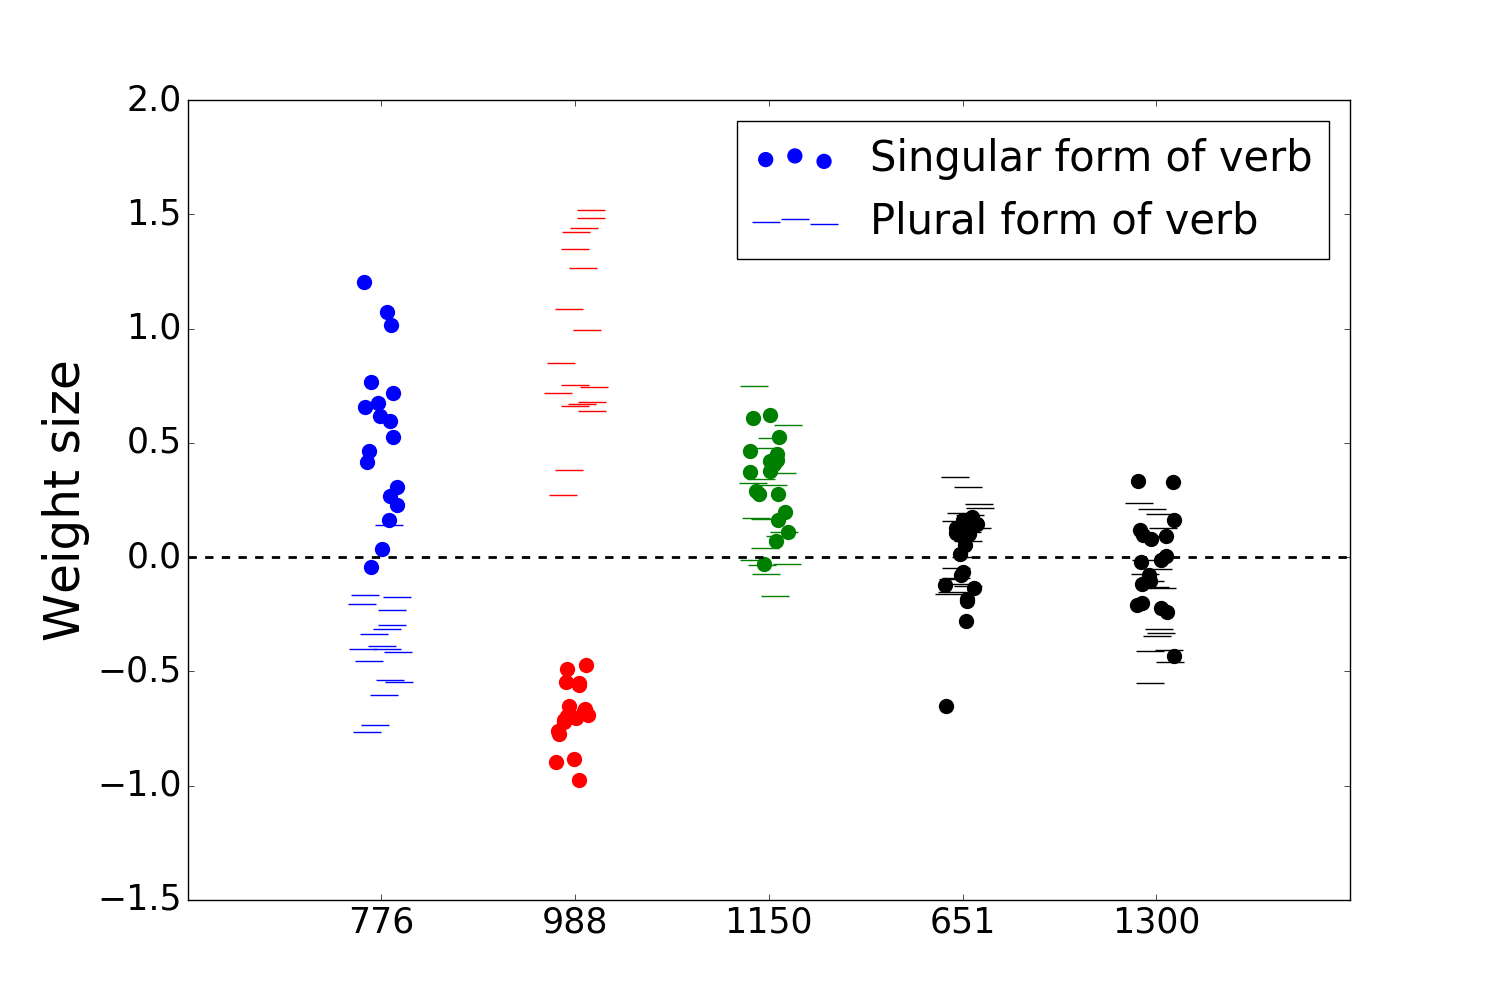
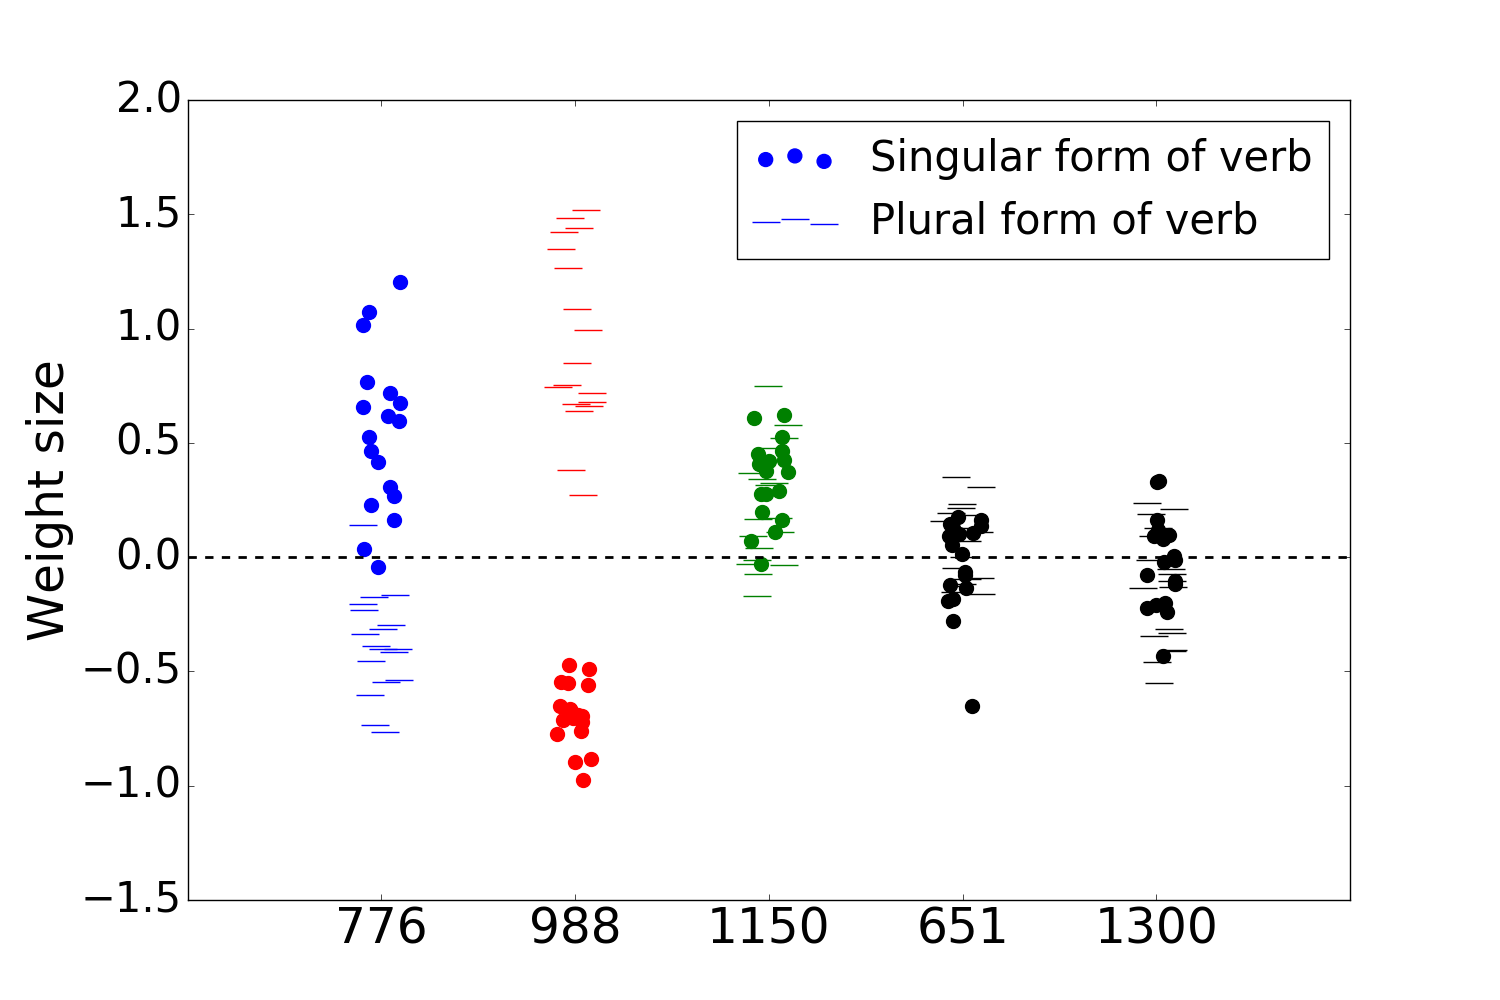
final cosmetics

diff --git a/writeup/NAACL2019/Sections/Results_number.tex b/writeup/NAACL2019/Sections/Results_number.tex
@@ -55,6 +55,7 @@ nounPPAdv & PP & - &  - &   \textcolor{blue}{99.8} \\
 \hline
 
 \end{tabular}
+% \tiny
 \caption{Ablation-experiments results: Percentage accuracy in all NA-tasks. Full: non-ablated model, C: condition, S: singular, P: plural. Red: Singular subject, Blue: Plural subject. Performance reduction less than 10\% is denoted by `-'.  \label{tab:ablation-results}}
 \end{table}
 \end{center}
@@ -90,13 +91,13 @@ nounPPAdv & PP & - &  - &   \textcolor{blue}{99.8} \\
 \subsection{Long-range number units}\label{subsec:ablation}
 We first tested LSTM performance on Linzen's data and on the NA-tasks of Table
 \ref{tab:data-sets}. Following
-\newcite{Linzen:etal:2016} and later work, we compute the likelihood
+\newcite{Linzen:etal:2016} and later work, we computed the likelihood
 that the LSTM assigns to the main verb of each sentence given the
-preceding context, and compare it to the likelihood it assigns to the
-wrong verb inflection. Accuracy in a given condition is the proportion of sentences in the condition where the model assigned a higher likelihood to the correct form than to the wrong one.
+preceding context, and compared it to the likelihood it assigns to the
+wrong verb inflection. Accuracy in a given condition was measured as the proportion of sentences in the condition where the model assigned a higher likelihood to the correct form than to the wrong one.
 
 Network performance is reported in Table \ref{tab:ablation-results}
-(right column -- `Full'). We see, first, that some NA-tasks and
+(right column -- `Full'). First, results show that some NA-tasks and
 conditions are more difficult than others. For example, performance on
 the Simple (0-distance) NA-task is better than that on the Co-Adv
 NA-task, which in turn is better than that of the nounPP
@@ -105,7 +106,7 @@ number-mismatch conditions of namePP, nounPP and nounPPAdv) reduce
 network performance. Third, for long-range dependencies, reliably
 encoding singular subject across an interfering noun is more difficult
 than a plural subject: for both nounPP and nounPPAdv, PS is easier
-than SP. A possible explanation is that in English the plural form is
+than SP. A possible explanation for this finding is that in English the plural form is
 almost always more frequent than the singular one, as the latter only
 marks third person singular, whereas the former is identical to the
 infinitive and other forms. Thus, if the network reverts to unigram
@@ -137,7 +138,7 @@ network performance only if the subject is plural (P, PS or PP conditions) and \
 only if the subject is singular (S, SP or SS conditions). In what follows, we will therefore
 refer to these units as the `plural' and `singular' units, respectively,
 or long-range (LR) number units when referring to both. Finally, we note that although the Linzen NA-task contained mixed stimuli from many types of conditions, the plural unit was found to have a substantial effect on average on network performance. The singular unit didn't show a similar effect in this case, which highlights the importance of using carefully crafted stimuli, as in the nounPP and nounPPAdv tasks, for understanding network dynamics. Taken
-together, the results suggest a highly local coding scheme of
+together, these results suggest a highly local coding scheme of
 grammatical number when processing long-range dependencies.
 
 \paragraph{Visualizing gate and cell-state dynamics}\label{subsec:gate-dynamics}
@@ -193,17 +194,17 @@ A single divergence between the solution depicted in Figure \ref{fig:cartoon} an
 
 \begin{figure}[b]
     \centering
-    \includegraphics[height=5cm]{Figures/weight_dists_verbs.png}
+    \includegraphics[height=4.6cm]{Figures/weight_dists_verbs.png}
     \caption{Efferent weights of the LR-units (\unit{2}{126} and \unit{2}{338}), the syntax unit (\unit{2}{500}; section \ref{sec:syntax-units}) and two arbitrary units (\unit{2}{1} and \unit{2}{650}).}
     \label{fig:output-weights}
 \end{figure}
 
-The singular and plural units have emerged at the second layer of the network. This seems appropriate if number information needs to be directly projected to the output layer for correct verb-form prediction. Moreover, number-unit output should be projected differently to singular and plural verb forms in the output layer, only increasing activity in output units representing the suitable form. For example, for the singular unit, since singular subjects are encoded with a negative value ($C_{t_{verb}-1}<-1$ in figure \ref{fig:singular-unit}), the more negative its efferent weights to singular verb forms in the output layer, the higher the probabilities of these verb forms would be. Figure \ref{fig:output-weights} shows the efferent weights of the LR-number units to all verbs in our data-sets. We find that, indeed, the efferent weights to the singular and plural verb forms are segregated from each other, with weight signs that correspond to the negative encoding of subject number used by both singular and plural units. Two other arbitrary units, \unit{2}{1} and \unit{2}{650}, and the syntax unit \unit{2}{500} to be described below (Section \ref{sec:syntax-units}) do not have segregated efferent weights to verb forms, as expected. 
+The singular and plural units had emerged at the second layer of the network. This seems appropriate if number information needs to be directly projected to the output layer for correct verb-form prediction. Moreover, number-unit output should be projected differently to singular and plural verb forms in the output layer, only increasing activity in output units representing the suitable form. For example, for the singular unit, since singular subjects are encoded with a negative value ($C_{t_{verb}-1}<-1$ in figure \ref{fig:singular-unit}), the more negative its efferent weights to singular verb forms in the output layer, the higher the probabilities of these verb forms would be. Figure \ref{fig:output-weights} shows the efferent weights of the LR-number units to all verbs in our data-sets. We found that, indeed, the efferent weights to the singular and plural verb forms are segregated from each other, with weight signs that correspond to the negative encoding of subject number used by both singular and plural units. Two other arbitrary units, \unit{2}{1} and \unit{2}{650}, and the syntax unit \unit{2}{500} to be described below (Section \ref{sec:syntax-units}) do not have segregated efferent weights to verb forms, as expected. 
 
 \subsection{Short-range number information}
 \begin{figure}
     \centering
-    \includegraphics[height=5cm]{Figures/GAT1d_cell_.png}
+    \includegraphics[height=4cm, width=8cm]{Figures/GAT1d_cell_.png}
     \caption{Generalization across time of subject-number prediction. Error bars represent standard deviations across cross-validation splits.}
     \label{fig:GAT}
 \end{figure}

diff --git a/writeup/NAACL2019/Sections/Intro.tex b/writeup/NAACL2019/Sections/Intro.tex
@@ -10,12 +10,12 @@ success can be explained by opportunistic surface-pattern-based
 heuristics.
 
 Until now, this debate has mostly relied on ``behavioural'' evidence:
-The LSTM is treated as a black box, and its capacities are indirectly
-inferred by its performance on linguistic tasks. We take here a
-complementary ``neuroscientific'' approach: We thoroughly investigate
+The LSTM had been treated as a black box, and its capacities had been indirectly
+inferred by its performance on linguistic tasks. In this study, we took a
+complementary ``neuroscientific'' approach: We thoroughly investigated
 the inner dynamics of an LSTM performing the number agreement task,
 striving to achieve a mechanistic understanding of how it accomplishes
-it. We find that the LSTM specialized two ``grandma'' cells
+it. We found that the LSTM had specialized two ``grandma'' cells
 \cite{Bowers:2009} to carry number features from the subject to the
 verb across the intervening material.\footnote{In the neuroscientific
   literature, ``grandma'' cells are (sets of) neurons coding for
@@ -38,13 +38,3 @@ structure-dependent linguistic operations. In turn, this suggests that
 raw linguistic input and generic memory mechanisms, such as those
 implemented in LSTMs, may suffice to trigger the induction of
 non-trivial grammatical rules.
-
-%\yair{In case we would need further compression in the intro, we could consider omitting the penultimate paragraph that describes the results, and leave the reader with only the teaser in the current last paragraph.}
-
-
-%\marco{Yair, I think your intro is excellent, but I feel is too long for a NAACL conference paper, where probably even mine will have to be shortened: I'd comment it out and keep it for the journal version.}
-
-%\yair{I love the intro as is. We could perhaps try to anchor the work within a slightly wider context though, by first discussing the debate between structure-based vs. statistical/heuristic approachs to sentence processing in humans in both linguistics and neuroscience. Then, describing the recent findings about LSTM-LMs as a parallel debate about RNNs, and finally to stress the advantages of working out the latter debate about LSTM-LM through computational simulations, like our work, in contributing to insights regarding the original debate in humans. I therefore sketched a possible intro paragraph, but we could postpone this for the more 'cognitive' audience in the longer version (and perhaps its also anyway too ambitious to describe our work as contributing in any way to the classic debate).}
-
-%\yair{Sentence comprehension requires to process dependencies between words in the sentence. Such dependencies may affect the meaning ascribed to sentence constituents and the prediction of next ones. Two opposing theoretical approches have been suggested for sentence comprehension. The first, more traditional one, suggests that structure-based syntactic processes are the principal computational capacity of human language (cite Chomsky 57,72; Pinker 95; Hauser et al 2002). According to this approach, word dependencies are described by syntactic trees and their processing is described by structure-based parsing computations (cite). The second, more recent approach, suggests that more fuzzy processes may underline human-language computations, thus embrasing 'good enough parsing' and canny heuristics (cite, eg, Traxler 2014; Ferreira, F., \& Patson, N. D. 2007; ). According to this approach, word dependencies, and sentence comprehension in general, are instead desribed by information-based and Bayesian theories (e.g., Levy R, 2009; Gibson et al 2013). Following this, a parallel debate has emerged in the neuroscientific community, drawing into consideration also the continuous dyanmics of biological nerual network akin to fuzzy computations. On the one hand, several studies provided evidence that brain processes lend themselves to interpreations from traditional syntax theories (cite Friederici, 2006, 2013, Nelson 2017). On the other hand, other studies have provided evidence against the primacy of such syntactic and structure-based computations in neural processing of sentences (e.g., Fedorenko 2018). Interestingly, recently, a similar debate about sentence processing has emerged about state-of-the-art sequential-learning models in the field of artificial neural networks (eg Linzen et al 2016, Gulordava:etal:2018, Kuncoro:etal:2018b, Linzen:Leonard:2018; see also Lake B et al:Behav and Brain sci:2017 for a related, more general, scope of debate, awakening an older one fodor\&pylyshyn:1988). Since both artifical and biological neural networks preserve the tension between their continuous dynamics and the discrete, structure-based, character of syntacic processing, while ANNs provide flexibility in conducting experiments, also going through tremendous recent advances, looking into this debate from this perspective may turn out to be in particular instructional.}
-

diff --git a/writeup/NAACL2019/Sections/Related_literature.tex b/writeup/NAACL2019/Sections/Related_literature.tex
@@ -1,16 +1,10 @@
 
 \section{Related work}
 
-% \marco{This can be made more compact by removing the intro par, and in the behavioural part only discussing studies of agreement. I would remove the part about which studies suggested agreement is done via heuristics and which argued it's genuinely structure-sensitive from the intro, and move it here. Happy to do that myself.}
-
-% Previous studies on understanding RNNs can be roughly characterized in two classes: studies that focus on visualising or interpreting the hidden state activations of such networks; and work that focuses on the behavior or performance of a model by studying the learnability of particular datasets or phenomena.
-% We briefly discuss the most important studies concerning RNNs applied for natural language processing.
-% For the second class, we specifically focus on behavioral studies concerning \textit{neural language models},a topic particularly relevant for the current paper.
-
 Starting with the seminal work of \newcite{Linzen:etal:2016},
 long-distance number agreement (``the \textbf{boy} near the cars
 \textbf{greets}\ldots'') has emerged as a standard way to probe the
-syntactic capabilities of RNNs. After
+syntactic capabilities of RNNs. Following
 mixed initial results by Linzen and colleagues and
 \newcite{Bernardy:Lappin:2017}, \newcite{Gulordava:etal:2018} and
 \newcite{Kuncoro:etal:2018a} have robustly established that LSTMs
@@ -28,20 +22,13 @@ While \newcite{Linzen:etal:2016} presented intriguing qualitative data
 showing cells that track number in a network specifically trained on
 the agreement task, most work of this sort focuses on testing the
 network output behaviour, rather than on understanding how the latter
-follows from the network inner representations. Another research line
-studies linguistic processing in neural networks through `diagnostic classifiers', that is, classifiers trained to
+follows from the inner representations of the network. Another research line
+studied linguistic processing in neural networks through `diagnostic classifiers', that is, classifiers trained to
 predict a certain property from network activations
-\cite[e.g.,][]{gelderloos2016phonemes,Adi:etal:2017,alain2017understanding,Hupkes:etal:2017}. This
-approach can shed insights on which information is encoded by the
+\cite[e.g.,][]{gelderloos2016phonemes,Adi:etal:2017,alain2017understanding,Hupkes:etal:2017}. This approach may give insight into which information is encoded by the
 network in different layers or at different time points, but it only
 provides indirect evidence about the specific mechanics of linguistic
 processing in the network.
-% E.g., \newcite{gelderloos2016phonemes} find evidence that a multilayer
-% RNN trained in a visually grounded learning paradigm learns to
-% represent linguistic information in a hierarchy, encoding form in the
-% lower and meaning in the higher layers.  \dieuwke{This is of course
-%   not very extensive, but maybe this is not really the place to put a
-%   too elaborate analysis?}
 
 Other studies are closer to our approach in that they attempt to
 attribute function to specific network cells, often by means of
@@ -52,7 +39,7 @@ language-model-trained network.  \newcite{Kementchedjhieva:Lopez:2018}
 recently found a character-level RNN to track morpheme boundaries in a
 single cell. We are however not aware of others studies systematically
 characterizing the processing of a linguistic phenomenon at the level of
-RNN cell dynamics as we attempt to do here.
+RNN cell dynamics, as is the attempt in the study hereby presented.
 
 
 % E.g., \newcite{gelderloos2016phonemes} find evidence that a multilayer

diff --git a/writeup/NAACL2019/Sections/Results_syntax.tex b/writeup/NAACL2019/Sections/Results_syntax.tex
@@ -4,29 +4,29 @@
 \begin{figure*}[t]
     \begin{subfigure}{0.32\textwidth}
             \centering
-            \includegraphics[width=\linewidth, height=3cm]{Figures/adv_conjunction_1149_cell}
+            \includegraphics[width=\linewidth, height=1.9cm]{Figures/adv_conjunction_1149_cell}
             \caption{2Adv}
             \label{fig:syntax-unit-2Adv}
     \end{subfigure}
     \begin{subfigure}{0.32\textwidth}
             \centering
-            \includegraphics[width=\linewidth, height=3cm]{Figures/nounpp_1149_cell.png}
+            \includegraphics[width=\linewidth, height=1.9cm]{Figures/nounpp_1149_cell.png}
             \caption{nounPP}
             \label{fig:syntax-unit-nounpp}
     \end{subfigure}
     \begin{subfigure}{0.32\textwidth}
             \centering
-            \includegraphics[width=\linewidth, height=3cm]{Figures/subjrel_that_1149_cell.png}
+            \includegraphics[width=\linewidth, height=1.9cm]{Figures/subjrel_that_1149_cell.png}
             \caption{subject relative}
             \label{fig:syntax-unit-subjrel}
     \end{subfigure}
     \begin{subfigure}{\textwidth}
             \centering
-            \includegraphics[width=\linewidth, height=3cm]{Figures/double_subjrel_that_1149_cell.png}
+            \includegraphics[width=\linewidth, height=2cm]{Figures/double_subjrel_that_1149_cell.png}
             \caption{Two embeddings with subject relatives}
             \label{fig:syntax-unit-double-subjrel}
     \end{subfigure}
-\caption{Cell activity of syntax unit \unit{2}{500} while processing various syntactic structures. Values averaged across all stimuli in an NA-task, with error bars representing standard deviations. Relative clause NA-task stimuli were specifically generated for this visualization. \yair{improve visualization}}
+\caption{Cell activity of syntax unit \unit{2}{500} while processing various syntactic structures. Values averaged across all stimuli in an NA-task, with error bars representing standard deviations. Relative clause NA-task stimuli were specifically generated for this visualization.}
 \end{figure*}
 
 We saw how the input and forget gates of the LR-number units control the flow
@@ -60,7 +60,7 @@ and nounPP tasks. We found the same dynamics in cases where another
 verb occurs between subject and main verb, as in subject relatives
 (Figure \ref{fig:syntax-unit-subjrel}), and in exceptionally
 long-distance dependencies with two interfering nouns and verbs
-(Figure \ref{fig:syntax-unit-double-subjrel}). Taken together, the
+(Figure \ref{fig:syntax-unit-double-subjrel}). Taken together, these
 results suggest that unit \unit{2}{500} consistently encodes
 subject-verb dependency in a syntax-sensitive manner. Other syntax
 units did not show an easily interpretable dynamics, and had no clear

diff --git a/Code/LSTM/model-analysis/SR_vs_LR_units.py b/Code/LSTM/model-analysis/SR_vs_LR_units.py
@@ -78,7 +78,7 @@ with open(args.sentences, 'r') as f:
 sentences = [s.split(' ') for s in sentences]
 
 #### Plot Full model
-fig1, ax1 = plt.subplots(1, figsize=(10,10))
+fig1, ax1 = plt.subplots(1, figsize=(18,10))
 # omit_units = [] # Omit nothing (Full model)
 # title = 'Full model'
 # print('model for: ' + title)
@@ -153,9 +153,9 @@ path2figures, filename = os.path.split(args.output_file_name)
 sentence = ['The', 'boy', 'near', 'the', 'cars', 'greets']
 ax1.set_xlim((0, len(sentence)-1))
 ax1.axhline(0.5, color='k', ls = '--')
-ax1.set_xticklabels(sentence, fontsize=30)
+ax1.set_xticklabels(sentence, fontsize=40)
 ax1.tick_params(axis='x', which='major', pad=15)
-ax1.set_ylabel('AUC', fontsize = 30)
+ax1.set_ylabel('AUC', fontsize = 40)
 ax1.set_yticks([0, 0.5, 1])
 ax1.set_yticklabels([0, 0.5, 1], fontsize=30)
 ax1.set_ylim((0, 1.05))
@@ -163,7 +163,7 @@ handles, labels = ax1.get_legend_handles_labels()
 a, b = labels.index('Full-model minus LR-units'), labels.index('Unit 988 (LR)')
 labels[b], labels[a] = labels[a], labels[b]
 handles[b], handles[a] = handles[a], handles[b]
-ax1.legend(handles, labels, loc=3, fontsize=20)#, bbox_to_anchor=(1.05, 1))
+ax1.legend(handles, labels, loc=3, fontsize=35)#, bbox_to_anchor=(1.05, 1))
 fig1.savefig(os.path.join(path2figures, 'GAT1d_' + args.gate + '_' + filename))
 
 print('Figures were saved to: ' + os.path.join(path2figures, 'GAT1d_' + args.gate + '_' + filename))

diff --git a/Code/LSTM/model-analysis/main_regress_open_nodes_with_covariates.py b/Code/LSTM/model-analysis/main_regress_open_nodes_with_covariates.py
@@ -58,7 +58,7 @@ if os.path.exists(data_file) and not regenerate_data:
 else:
     data_sentences = annotated_data.Data()
     data_sentences.add_corpus(txt_file, separator='|', column_names=['sentence', 'structure', 'open_nodes_count', 'adjacent_boundary_count'])
-    data_sentences.data = data_sentences.filter_sentences(n=n, elements=list(range(18))) # Filter data to get a uniform distribution of sentence types
+    data_sentences.data = data_sentences.filter_sentences(n=n, elements=list(range(26))) # Filter data to get a uniform distribution of sentence types
     data_sentences.add_word_frequency_counts(frequency_file)
     data_sentences.add_activation_data(model, vocab, eos, unk, use_unk, lang, get_representations)
     pickle.dump(data_sentences, open(data_file, 'wb'))
@@ -71,6 +71,7 @@ plt.savefig(os.path.join(settings.path2figures, 'num_open_nodes', 'position_numO
 plt.close()
 min_n = data_sentences.get_min_number_of_samples_in_rectangle(c_dict, pos_min=pos_min, pos_max=pos_max, depth_min=depth_min, depth_max=depth_max)
 data_sentences.decorrelate(pos_min=pos_min, pos_max=pos_max, depth_min=depth_min, depth_max=depth_max, n=min_n) # decorrelate data
+print('number of sentences after decorrelation = ', len(data_sentences.data))
 
 # TODO implement function to find max rectangle
 # TODO(?): data_sentences.omit_depth_zero() # Not needed for Marco's sentence generator

diff --git a/writeup/NAACL2019/Sections/Results_interaction.tex b/writeup/NAACL2019/Sections/Results_interaction.tex
@@ -4,13 +4,13 @@
     \centering
     \begin{subfigure}{0.49\textwidth}
             \centering
-            \includegraphics[width=\textwidth]{Figures/gate_Input_afferent_interactions.png}
+            \includegraphics[height=3.5cm,width=\textwidth]{Figures/gate_Input_afferent_interactions.png}
             \caption{Input gate}
             \label{fig:interaction-input}
     \end{subfigure}
     \begin{subfigure}{0.49\textwidth}
            \centering
-          \includegraphics[width=\textwidth]{Figures/gate_Forget_afferent_interactions.png}
+          \includegraphics[height=3.5cm,width=\textwidth]{Figures/gate_Forget_afferent_interactions.png}
           \caption{Forget gate}
           \label{fig:interaction-forget}
     \end{subfigure}

diff --git a/Code/LSTM/model-analysis/extract_embeddings_from_rnn.py b/Code/LSTM/model-analysis/extract_embeddings_from_rnn.py
@@ -128,7 +128,8 @@ if args.units_first:
 
 plt.legend(fontsize=30, bbox_to_anchor=(1,1))
 # plt.subplots_adjust(top=0.8)
-plt.tick_params(axis='both', which='major', labelsize=25)
+plt.tick_params(axis='x', which='major', labelsize=35)
+plt.tick_params(axis='y', which='major', labelsize=30)
 plt.xticks(range(len(units)+len(units_first)), [str(u+1) for u in units] + [str(u+1) for u in units_first])
 ax.set_ylabel('Weight size', fontsize = 35)
 # ax.set_xlabel('Unit', fontsize = 35)

diff --git a/Code/LSTM/model-analysis/functions/load_settings_params.py b/Code/LSTM/model-analysis/functions/load_settings_params.py
@@ -5,7 +5,7 @@ class settings:
     def __init__(self):
 
         # Regression
-        self.method = 'Ridge' # Ridge/Lasso
+        self.method = 'Lasso' # Ridge/Lasso
         self.y_label = 'all'  # Which label to regress from the meta text data
         self.h_or_c = 0  # zero or one. 0: hidden 1: cell
         self.which_layer = 0  # 0: both, 1: first, 2: second
